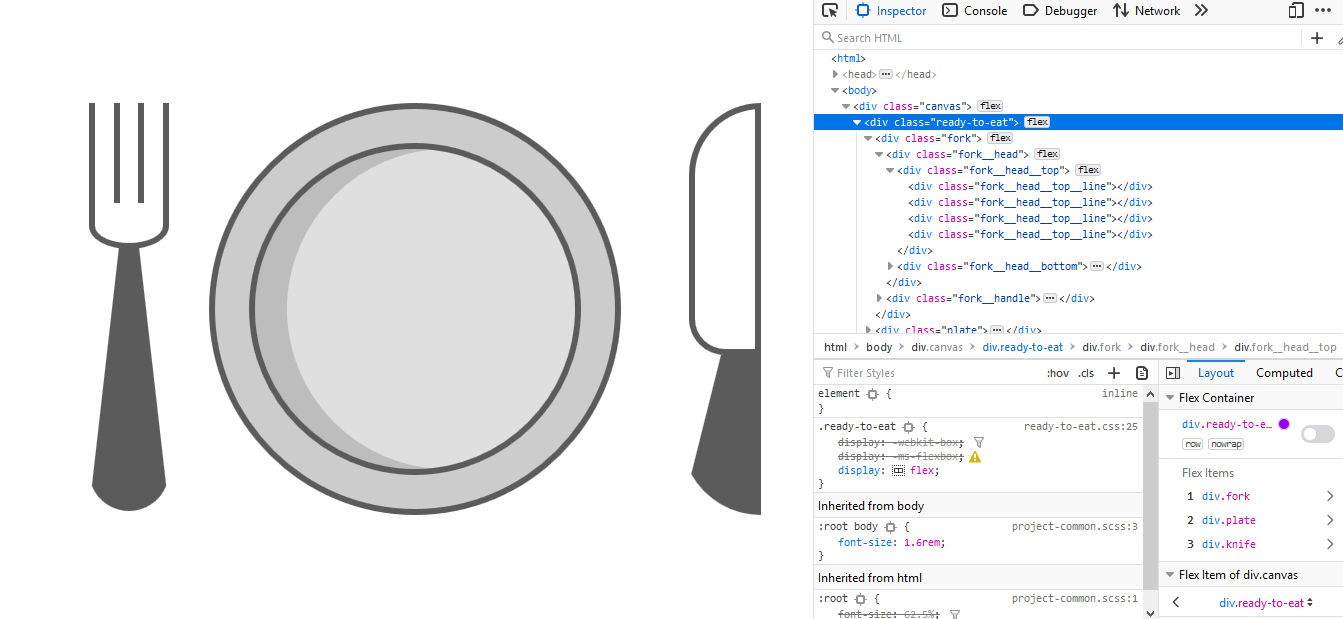
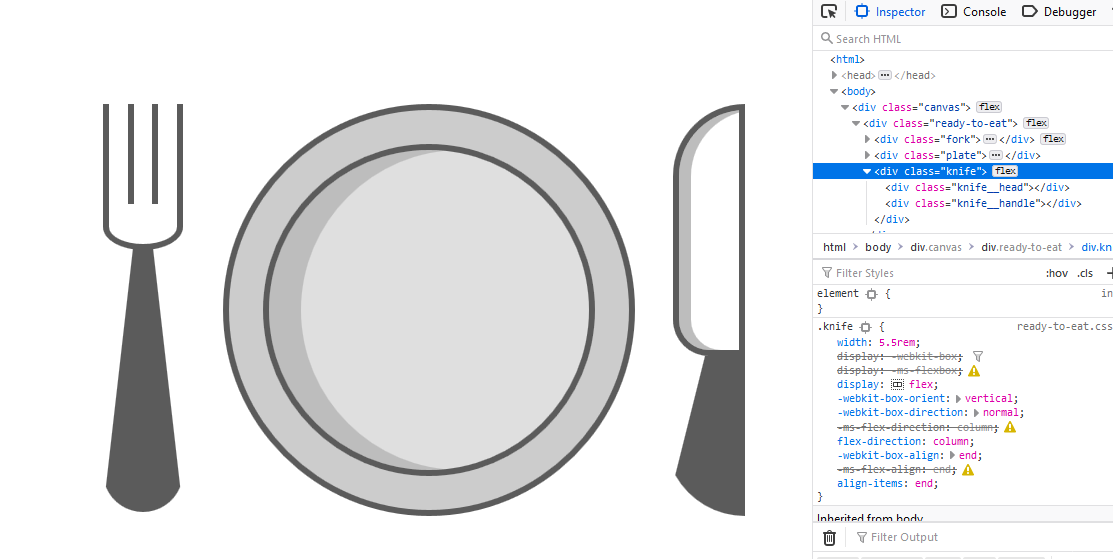
Ready to eat modify

Changed region(s): [[0.0611, 0.0, 1.0, 1.0]]

diff --git a/styles/ready-to-eat.scss b/styles/ready-to-eat.scss
@@ -75,7 +75,7 @@ $shadow-color:#bdbdbd;
 }
 
 .knife {
-    width: 7rem;
+    width: 5.5rem;
     display: flex;
     flex-direction: column;
     align-items: end;
@@ -86,6 +86,7 @@ $shadow-color:#bdbdbd;
         border: 3px solid $stroke-color;
         border-top-left-radius: 4rem;
         border-bottom-left-radius: 2rem;
+        box-shadow: inset 6px 0 0 0 $shadow-color;
     }
 
     &__handle {

diff --git a/styles/ready-to-eat.css b/styles/ready-to-eat.css
@@ -111,7 +111,7 @@
 }
 
 .knife {
-  width: 7rem;
+  width: 5.5rem;
   display: -webkit-box;
   display: -ms-flexbox;
   display: flex;
@@ -130,6 +130,8 @@
   border: 3px solid #5b5b5b;
   border-top-left-radius: 4rem;
   border-bottom-left-radius: 2rem;
+  -webkit-box-shadow: inset 6px 0 0 0 #bdbdbd;
+          box-shadow: inset 6px 0 0 0 #bdbdbd;
 }
 
 .knife__handle {
